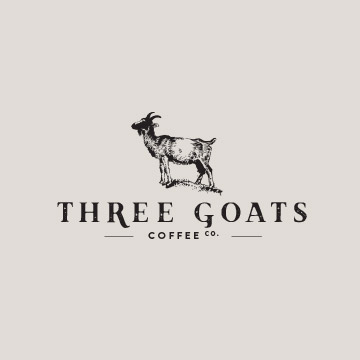
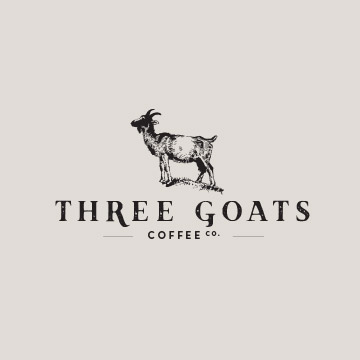
Noodling

Changed region(s): [[0.1528, 0.3056, 0.8556, 0.6722]]

diff --git a/source/stylesheets/partials/_project.scss b/source/stylesheets/partials/_project.scss
@@ -2,7 +2,7 @@
 ------------------------------------------------------------------------------*/
 // (project name, bg color, header color, text color)
 @include project('family-crest', #8fd6ba, #29b77f);
-@include project('three-goats', #d0c9c0, #675C4D);
+@include project('three-goats', #EFECEA, #675C4D);
 @include project('sloan-digital', #DED8D8, #DA433A);
 @include project('hickory-docks', #8acab9, #1BAE84);
 

diff --git a/source/javascripts/projectHeader.js b/source/javascripts/projectHeader.js
@@ -4,6 +4,3 @@ var projectHeader = function () {
   var height = document.getElementById("project-header").offsetHeight;
   document.getElementById("project-content").style.marginTop = (height + 65) + 'px';
 };
-
-$(document).ready(projectHeader);
-$(window).resize(projectHeader);
